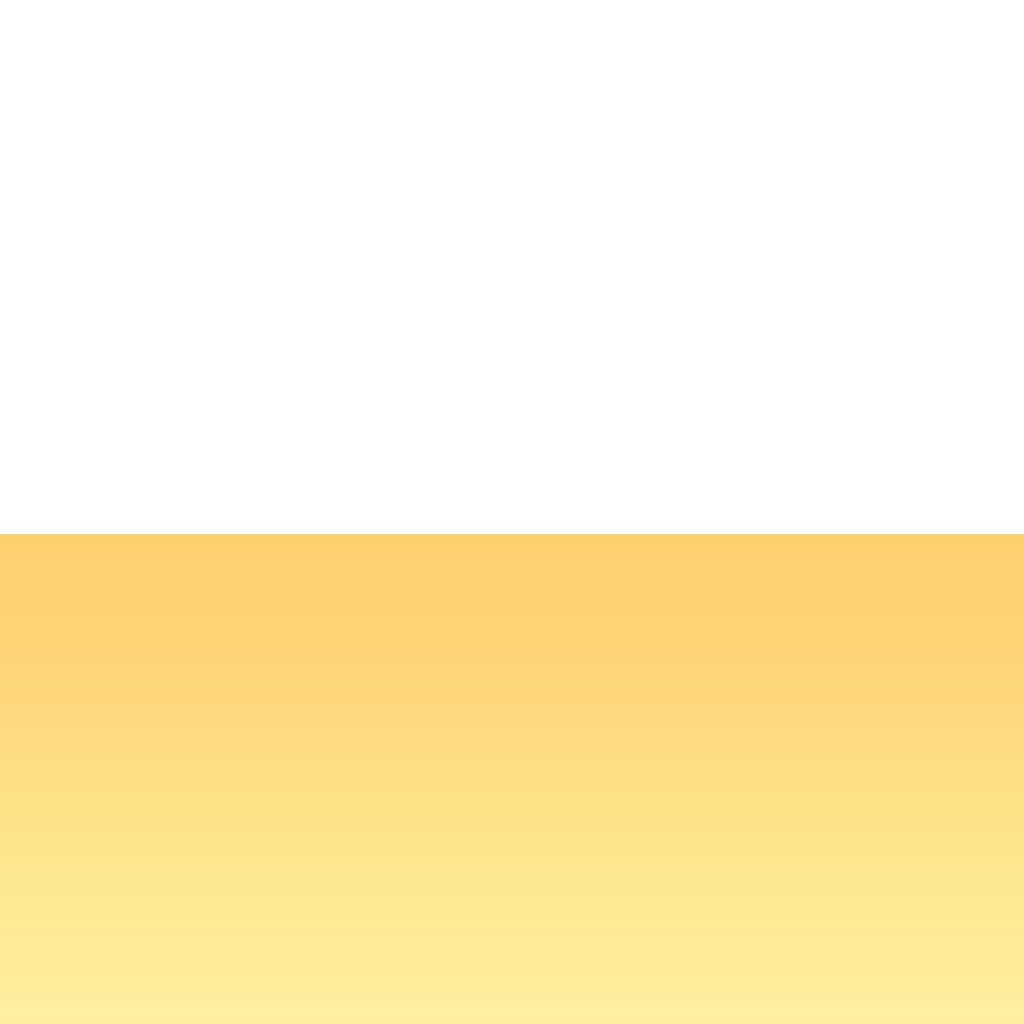
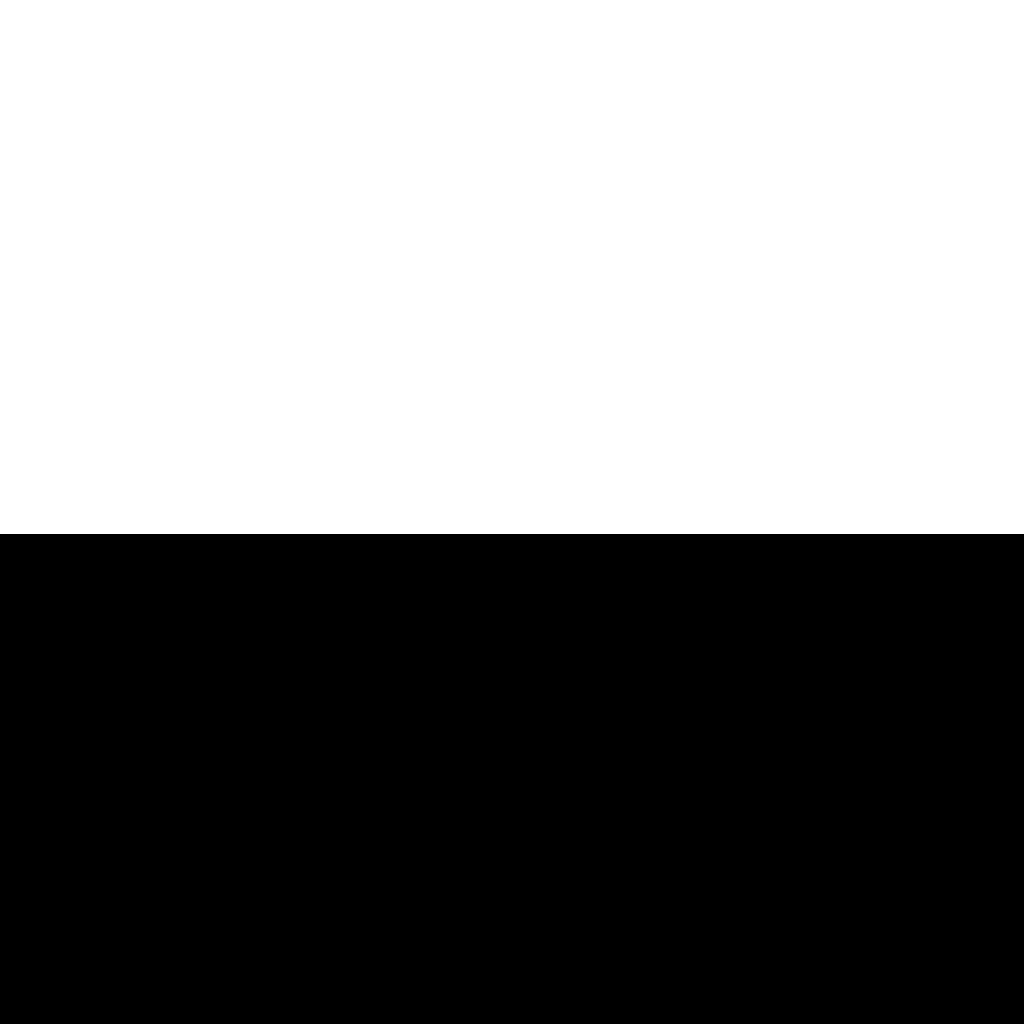
sun stuff

diff --git a/client/square.js b/client/square.js
@@ -298,12 +298,13 @@ export default class Square extends THREE.Object3D{
         if (sun) {
             let sunMesh = sun.getObjectByName(name + "_F").children[0];
             //console.log("Turn off sun", sun);
-            //sun.material.side = THREE.BackSide;
-            sunMesh.material.color = new THREE.Color(0x888788);
-            sunMesh.material.emissive= new THREE.Color(0x000000);
-            // sunMesh.material.emissive= new THREE.Color(0xBD9F6C);
-             sunMesh.material.transparent= true;
+            sunMesh.material.color = new THREE.Color(0x001D16);
+            sunMesh.material.emissive= new THREE.Color(0x57340C);
+            sunMesh.material.specular= new THREE.Color(0xB3B600);
+            sunMesh.material.transparent= true;
             sunMesh.material.opacity = .8;
+            sunMesh.material.shininess = 0;
+            sunMesh.material.bumpScale = 4;
             sunMesh.material.map = this.sunTextureDesat;
             sunMesh.material.needsUpdate = true;
             sun.getObjectByName(name + "_L").visible = false;
@@ -315,19 +316,22 @@ export default class Square extends THREE.Object3D{
             let sun = this.suns.getObjectByName(name)
             if (sun) {
                 if (this.currentSun) {
-                                    let strokeMesh = sun.getObjectByName(name + "_S").children[0];
-                strokeMesh.material.color.set(0x666633);
+                let strokeMesh = sun.getObjectByName(name + "_S").children[0];
+                strokeMesh.material.color.set(0xFEE428);
                  strokeMesh.material.needsUpdate = true;
                     this.turnOffSun(this.currentSun);
 
                 }
                 console.log("Turning on sun ", name);
                 let sunMesh = sun.getObjectByName(name + "_F").children[0];
-               // sunMesh.material.color = new THREE.Color(0xfff06f);
+                sunMesh.material.color = new THREE.Color(0xFFFF28);
                 sunMesh.material.emissive= new THREE.Color(11904267);
+                sunMesh.material.bumpScale = 4;
+                 sunMesh.material.specular= new THREE.Color(0xFFFF00);
+
                 //sunMesh.material.side = THREE.Backside;
                    // sunMesh.material.opacity = 1.00;
-                 sunMesh.material.transparent = false;
+                sunMesh.material.transparent = false;
                 sunMesh.material.map = this.sunTexture;
                 this.sunTexture.offset.y = this.sunTextureOffsets[name];
                 //texture offset by progress in chapter 
@@ -353,7 +357,9 @@ export default class Square extends THREE.Object3D{
         if (sun) {
             let sunMesh = sun.getObjectByName(name + "_F").children[0];
             console.log("Turn on sun", sun);
-            sunMesh.material.color = new THREE.Color(0x000D0A);
+       sunMesh.material.color = new THREE.Color(0xFFFF28);
+            sunMesh.material.emissive= new THREE.Color(11904267);
+            sunMesh.material.specular= new THREE.Color(11904267);
             sunMesh.material.map = this.sunTexture;
             this.sunTexture.offset.y = this.sunTextureOffsets[name];
             sunMesh.material.needsUpdate = true;
@@ -369,8 +375,9 @@ export default class Square extends THREE.Object3D{
         if (sun) {
             let sunLoader = sun.getObjectByName(name + "_L");
             let sunMesh = sun.getObjectByName(name + "_F").children[0];
-            sunMesh.material.color = new THREE.Color(0x666633);
-              //sunMesh.material.emissive = new THREE.Color(16756224);
+            sunMesh.material.color = new THREE.Color(0x001D16);
+            sunMesh.material.emissive= new THREE.Color(0x57350C);
+            sunMesh.material.specular= new THREE.Color(0x0D0000);
             sunMesh.material.map = this.sunTextureDesat;
             sunMesh.material.needsUpdate = true;
             this.sunTexture.offset.y = this.sunTextureOffsets[this.currentSun];

diff --git a/client/trees.js b/client/trees.js
@@ -5,7 +5,7 @@ import DebugUtil from './util/debug'
 export default class Trees extends THREE.Object3D {
     constructor(camera, renderer) {
         super();
-        this.debug = false;
+        this.debug = true;
 
         this.camera = camera;
         this.renderer = renderer;
